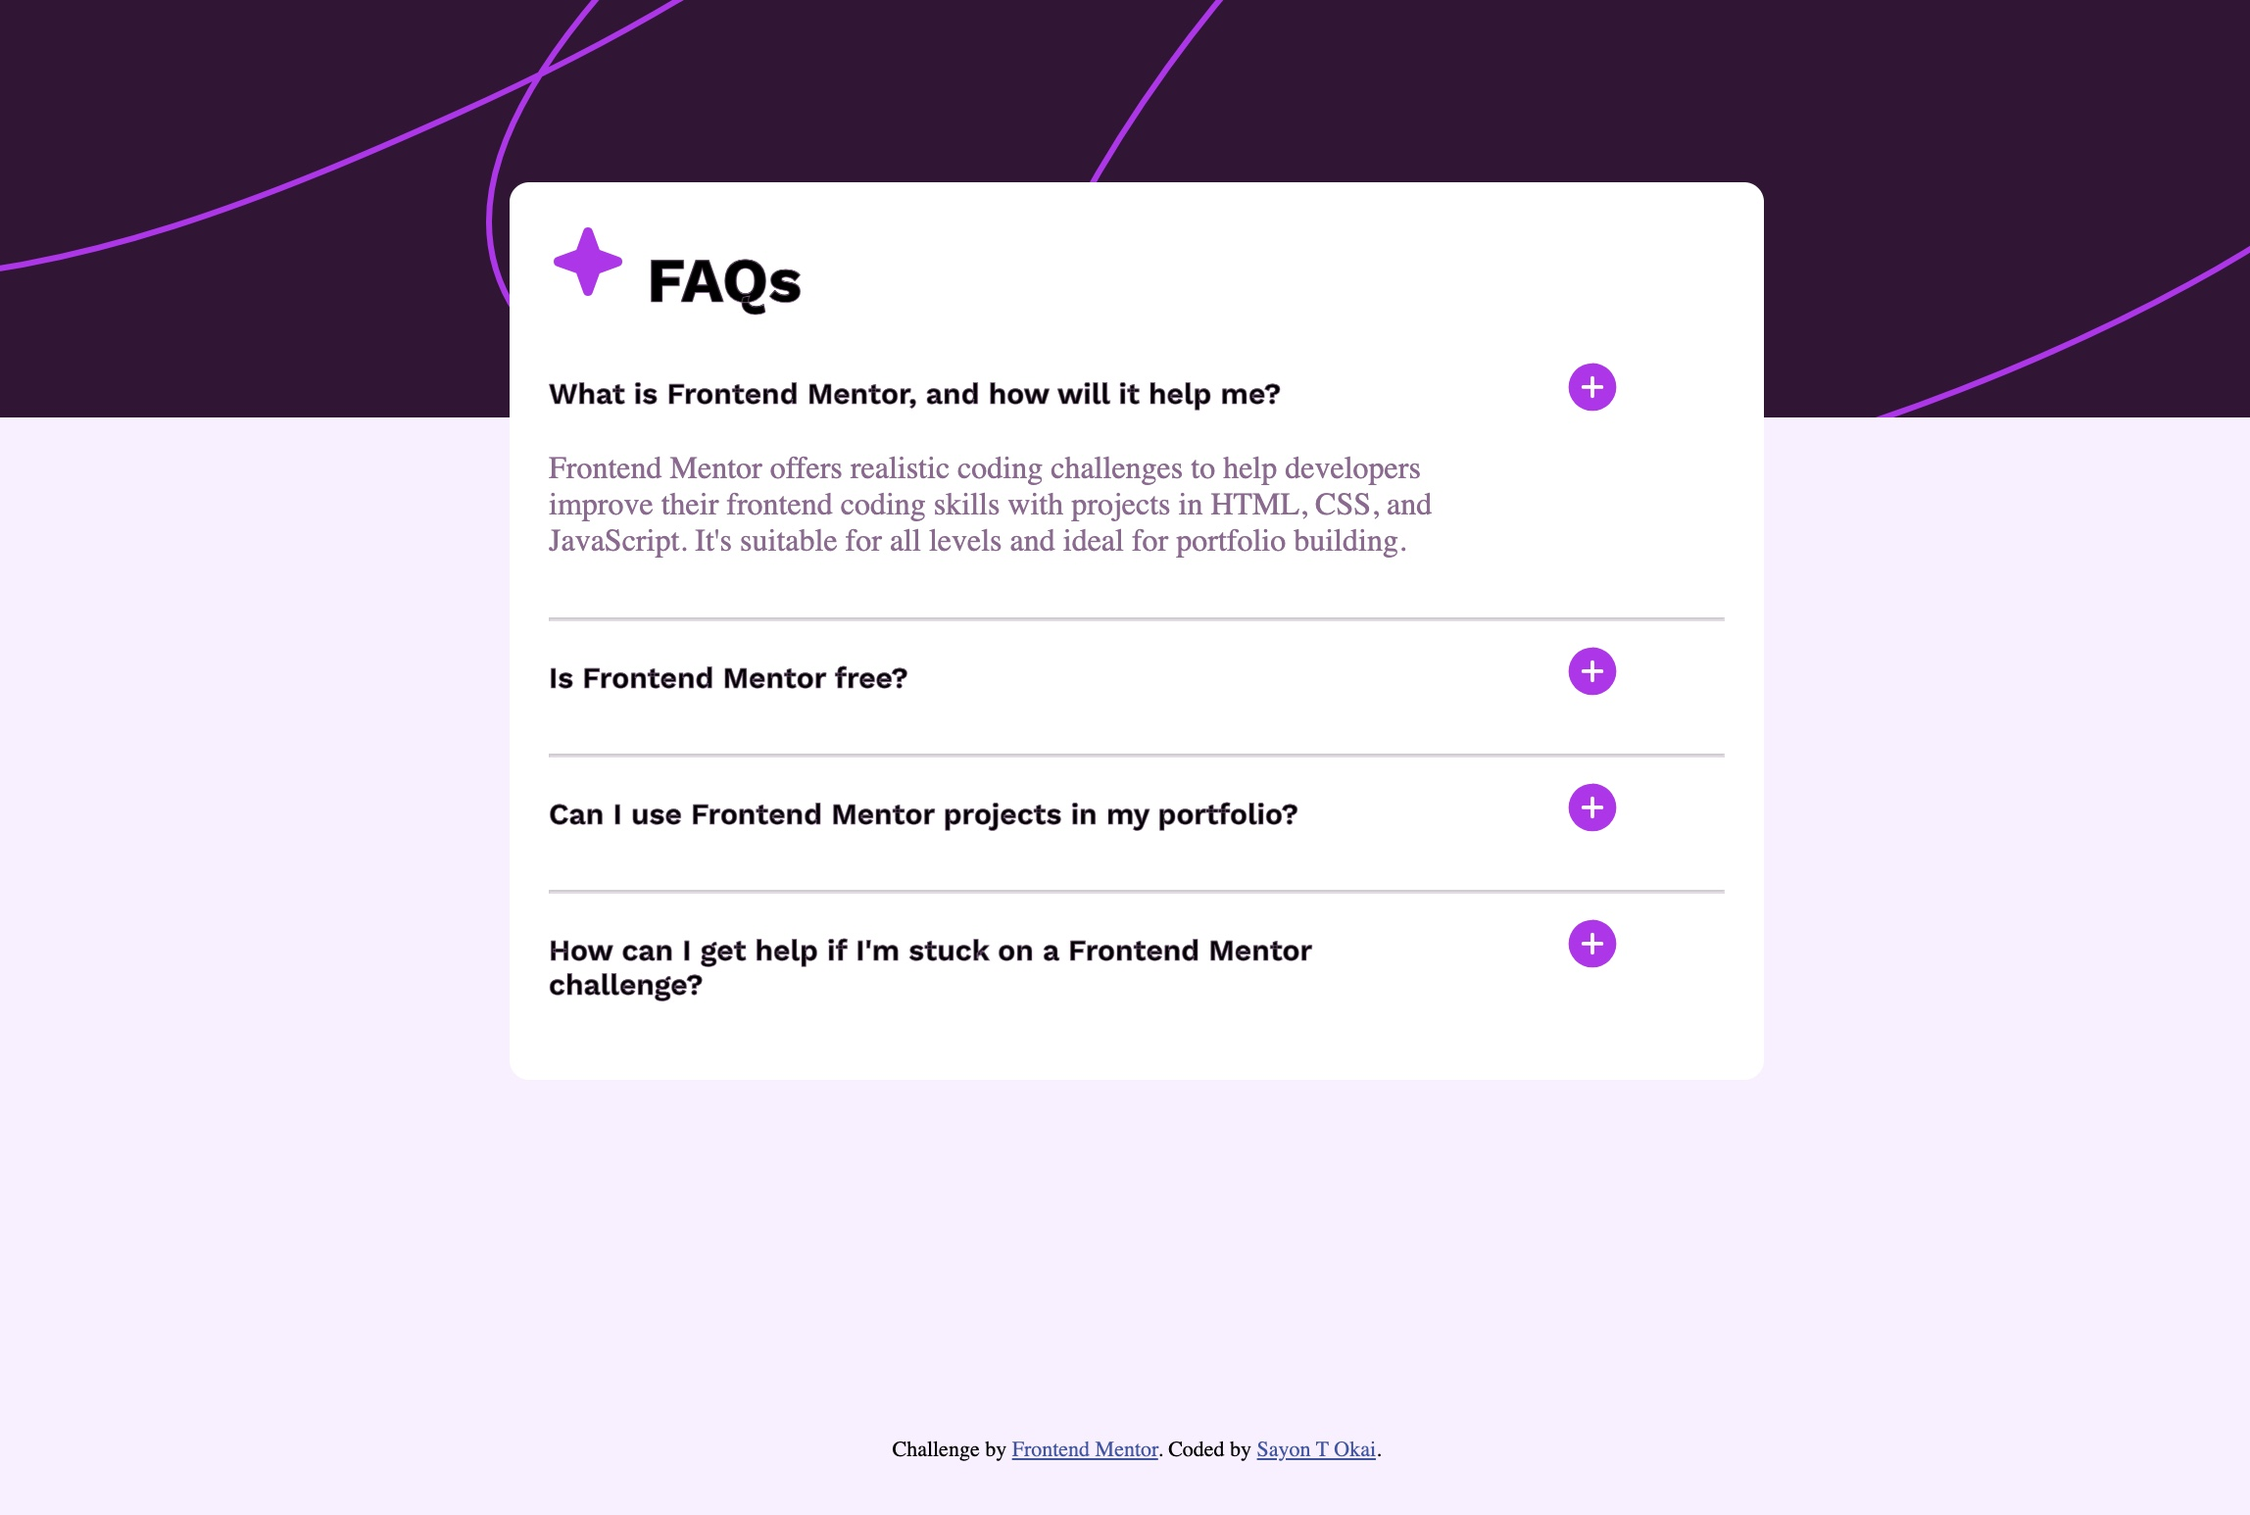
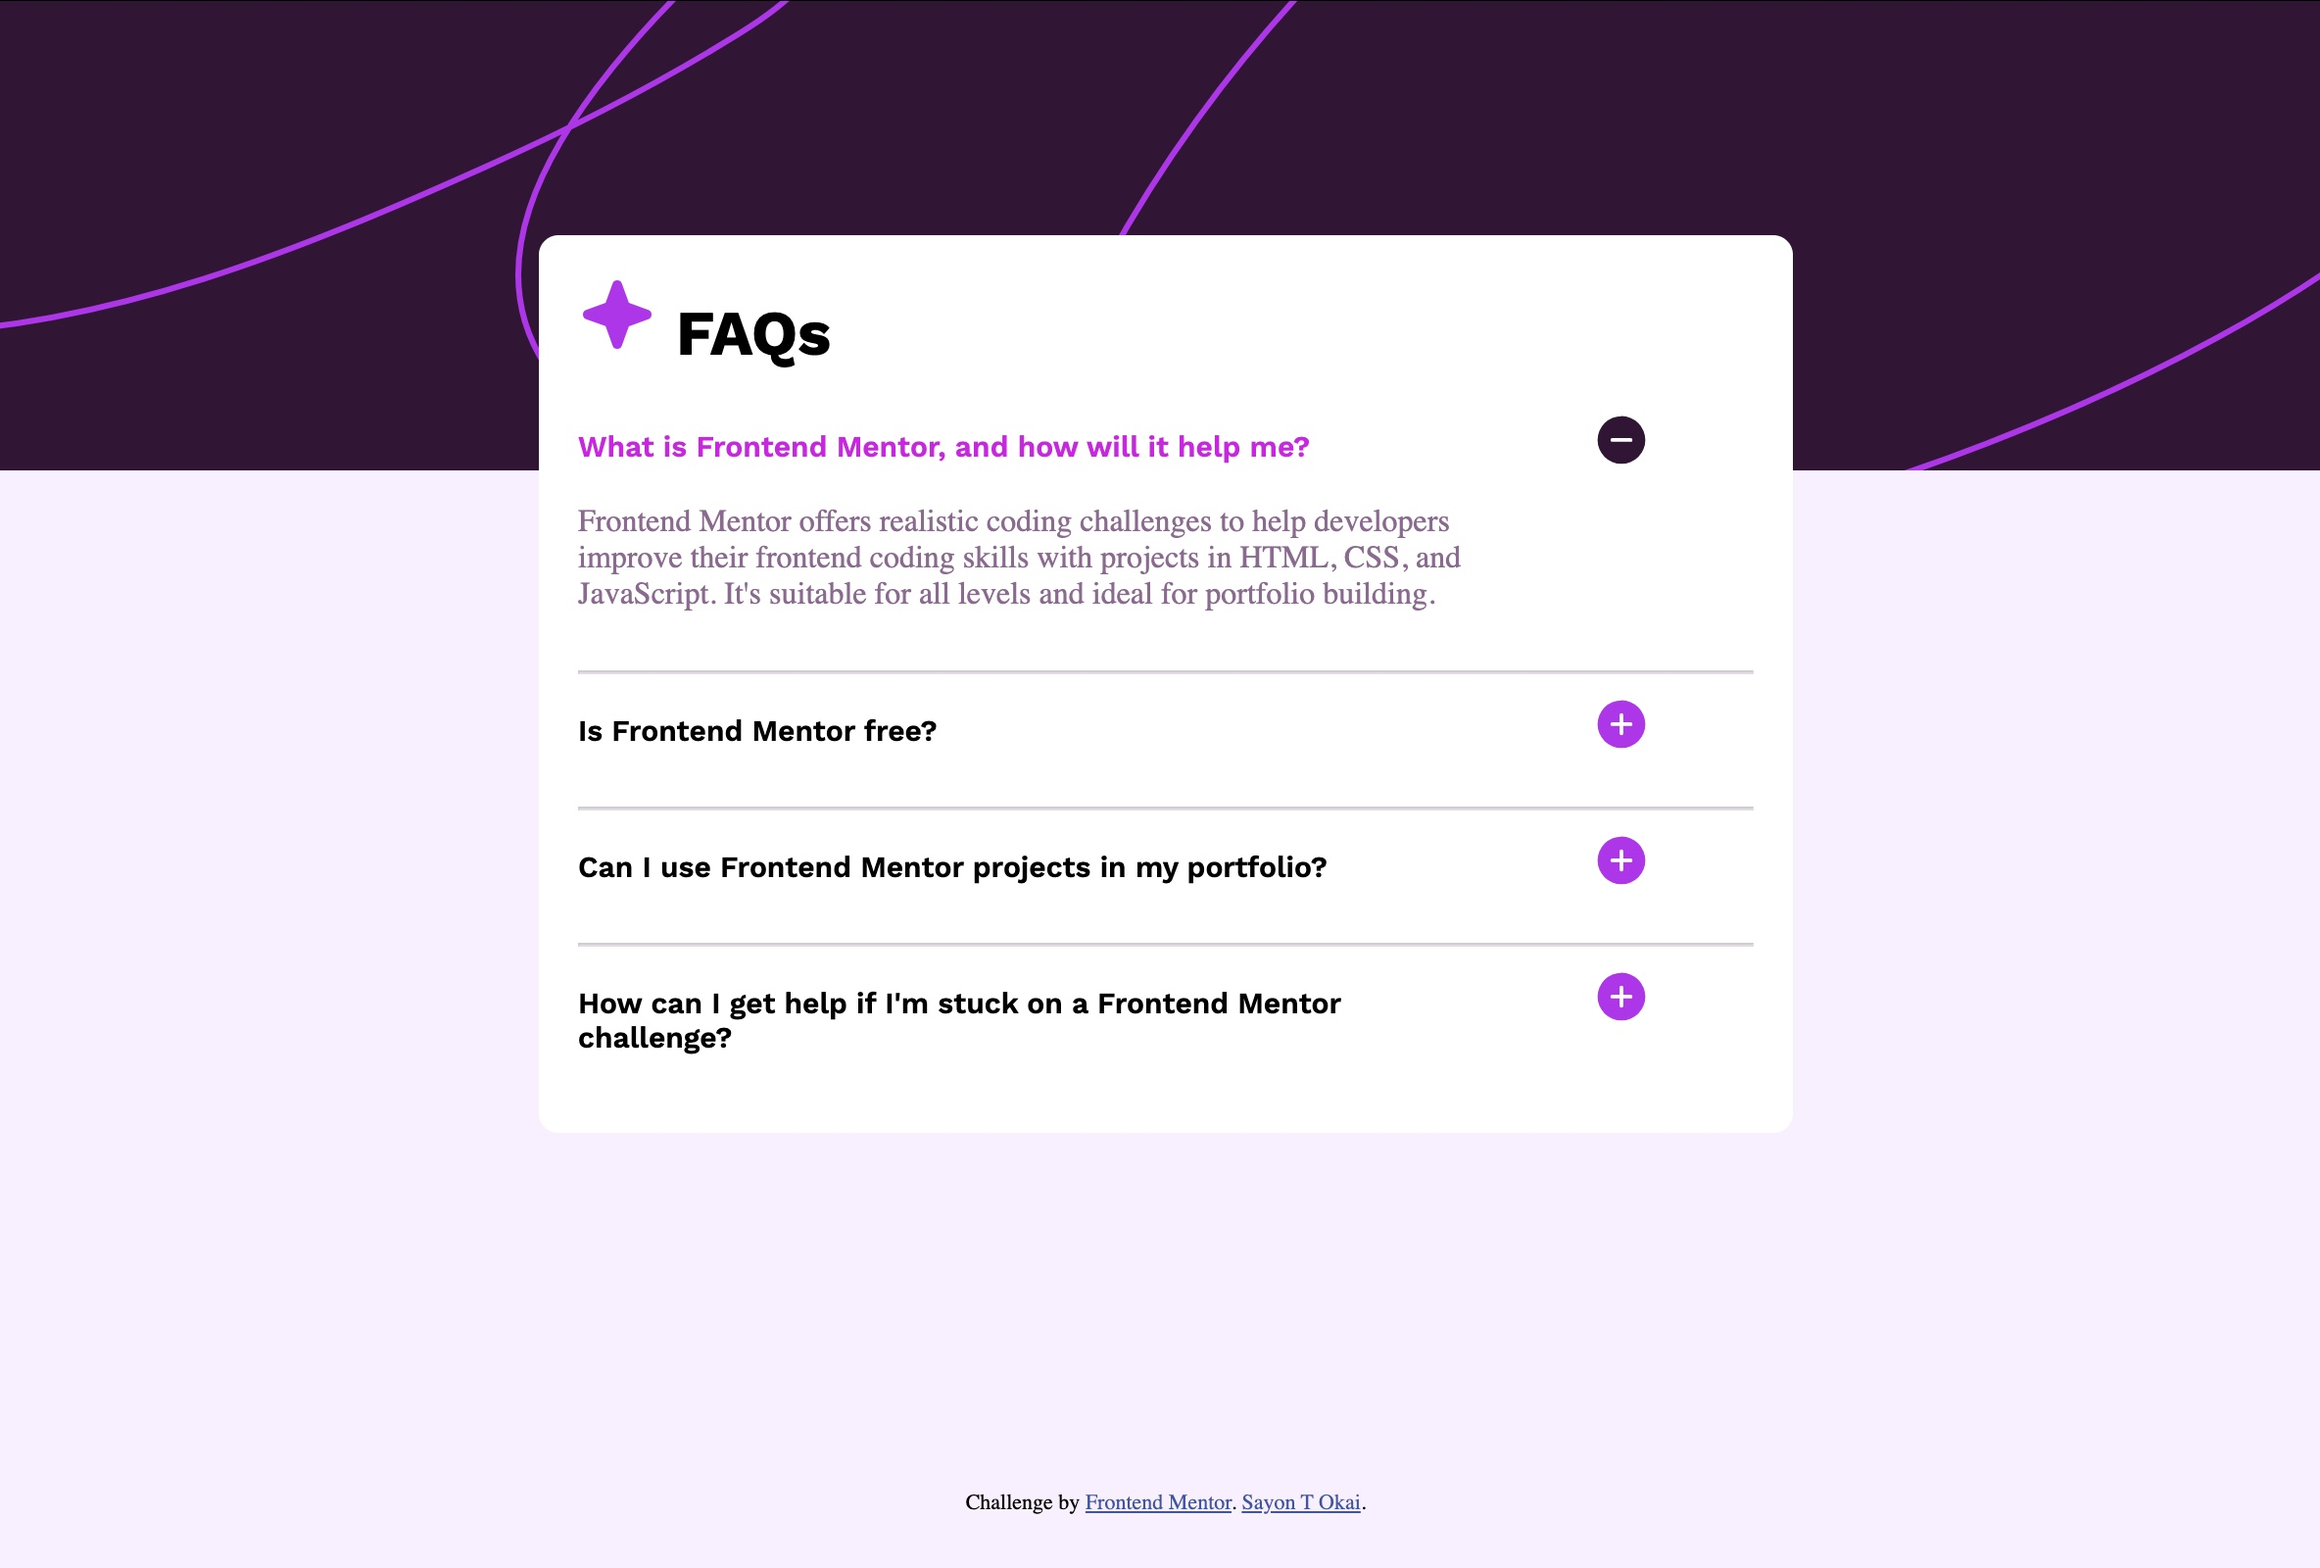
Challenge all functionalities added - README updated - UI Built without design file- important

diff --git a/css/main.css b/css/main.css
@@ -25,14 +25,8 @@ body {
  header {
     width: 100%;
     height: 240px;
-    display: flex;
-    flex-direction: column;
-   
-
     background: url(../assets/images/background-pattern-desktop.svg);
  }
-
-
 
  main {
     width: 50%;
@@ -52,31 +46,33 @@ body {
        font-size: 2rem;
        font-weight: 700px;
        margin-bottom: 20px;
-        color: #000;
-        -webkit-text-stroke-width: 0.50px;
-        -webkit-text-stroke-color: hsl(292, 16%, 49%);
+       color: #000;
+        
   }
 
   h3 {
-         color: #000;
-        -webkit-text-stroke-width: 0.50px;
-        -webkit-text-stroke-color: hsl(292, 16%, 49%);
+         
+   
         font-family: 'work sans', Arial, Helvetica, sans-serif;
         font-weight: 600;
         font-size: 15px;
-        display: inline;
         margin: 10px 0 20px 0;
    
     
          
   }
 
-  a:hover{
-    color: hsl(293, 88%, 47%);
-    font-size: 17px;
-    cursor: pointer;
- 
+.active {
+     color: hsl(293, 88%, 47%);
+      font-size: 17px;
+      cursor: pointer;
   }
+
+   h3 a:hover {  
+    color: hsl(293, 88%, 47%);
+     font-size: 17px;
+     cursor: pointer;
+   }
 
  h3 a:focus{
     color: hsl(293, 88%, 47%);
@@ -151,16 +147,11 @@ body {
     }
 }
 
-
-@media (min-width: 375px) and (max-width: 485px) {
+@media (min-width: 320px) and (max-width: 485px) {
   
     header {
             width: 100%;
             height: 300px;
-            display: flex;
-            flex-direction: column;
-    
-    
             background: url(../assets/images/background-pattern-desktop.svg);
         }
 

diff --git a/js/main.js b/js/main.js
@@ -8,13 +8,13 @@
       if (faqAnswer.hasClass("hidden")) {
           $(this).attr("src", "./assets/images/icon-plus.svg");
   
-          $(this).prev("h3").css("color", "")
+         $(this).prev("h3").find("a").css("color", "")
           
          
       } else {
           $(this).attr("src", "./assets/images/icon-minus.svg");
          
-          $(this).prev("h3").css("color", "hsl(293, 88%, 47%)")
+         $(this).prev("h3").find("a").css("color", "hsl(293, 88%, 47%)")
               faqAnswer.addClass("fade-text");
       }
 
@@ -29,18 +29,12 @@
       var faqAnswer = $(this).siblings("p");
       faqAnswer.toggleClass("hidden")
       
-
      if (faqAnswer.hasClass("hidden")) {
-         var iconChange = $(this).next("img");
 
           $(this).next("img").attr("src", "./assets/images/icon-plus.svg");
-          $(this).prev("h3").css("color", "")
-          
-         
+        
       } else {
         $(this).next("img").attr("src", "./assets/images/icon-minus.svg");
-         
-          $(this).prev("h3").css("color", "hsl(293, 88%, 47%)")
               faqAnswer.addClass("fade-text");
       }
 
@@ -48,5 +42,5 @@
    
  });
 
- 
+
 

diff --git a/index.html b/index.html
@@ -28,7 +28,7 @@
 
       <img src="./assets/images/icon-plus.svg" alt="plus icon" class="icons-add icons">
 
-      <p class=" animate">
+      <p class=" hidden">
         Frontend Mentor offers realistic coding challenges to help developers improve their
         frontend coding skills with projects in HTML, CSS, and JavaScript. It's suitable for
         all levels and ideal for portfolio building.
@@ -83,10 +83,10 @@
  
 </main>
 
-  
+
   <div class="attribution">
     Challenge by <a href="https://www.frontendmentor.io?ref=challenge" target="_blank">Frontend Mentor</a>. 
-    Coded by <a href="#">Sayon T Okai</a>.
+   <a href="https://github.com/Sayon-okai">Sayon T Okai</a>.
   </div>
 
   <!-- jQuery Google CDN  -->
